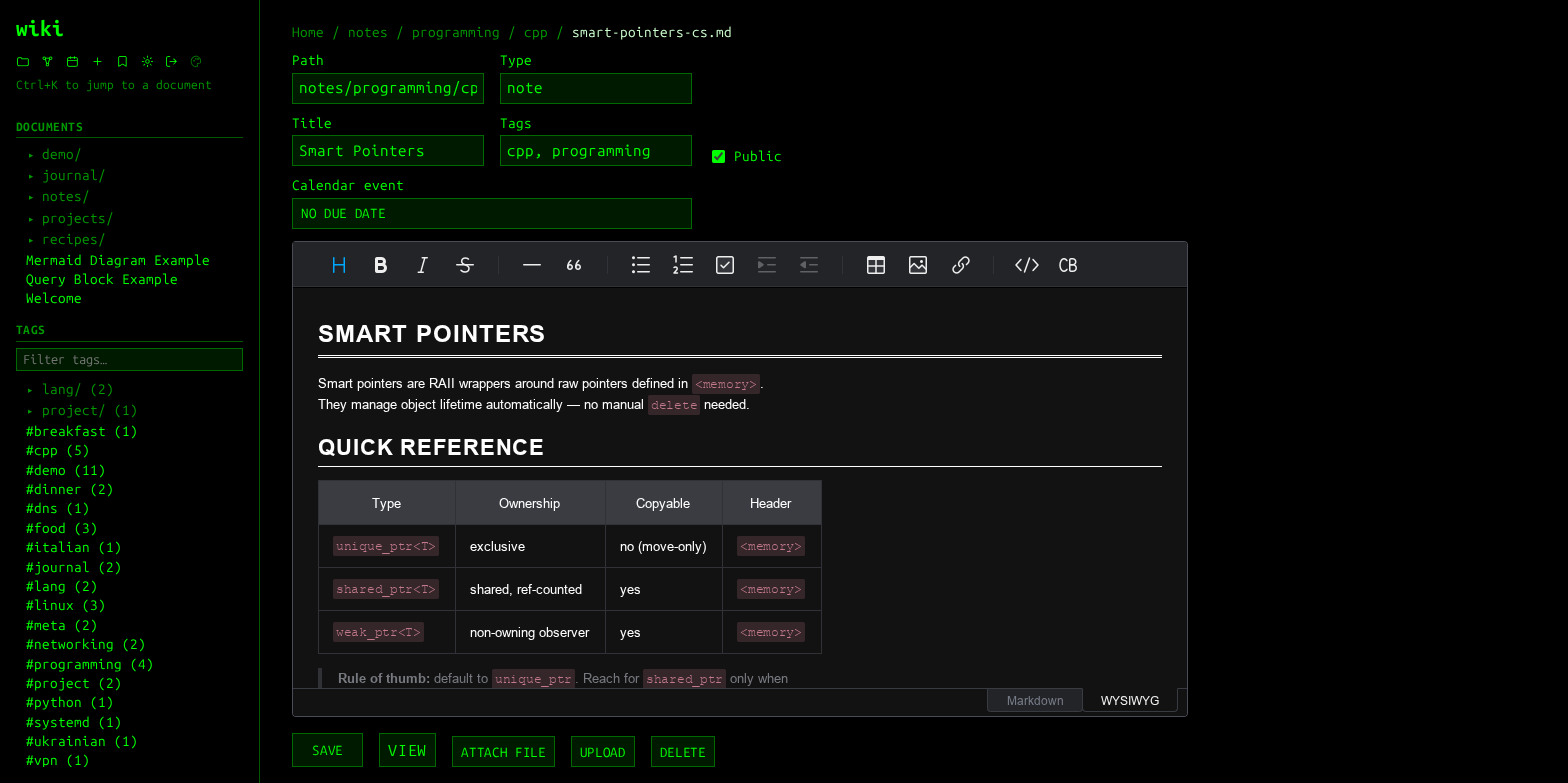
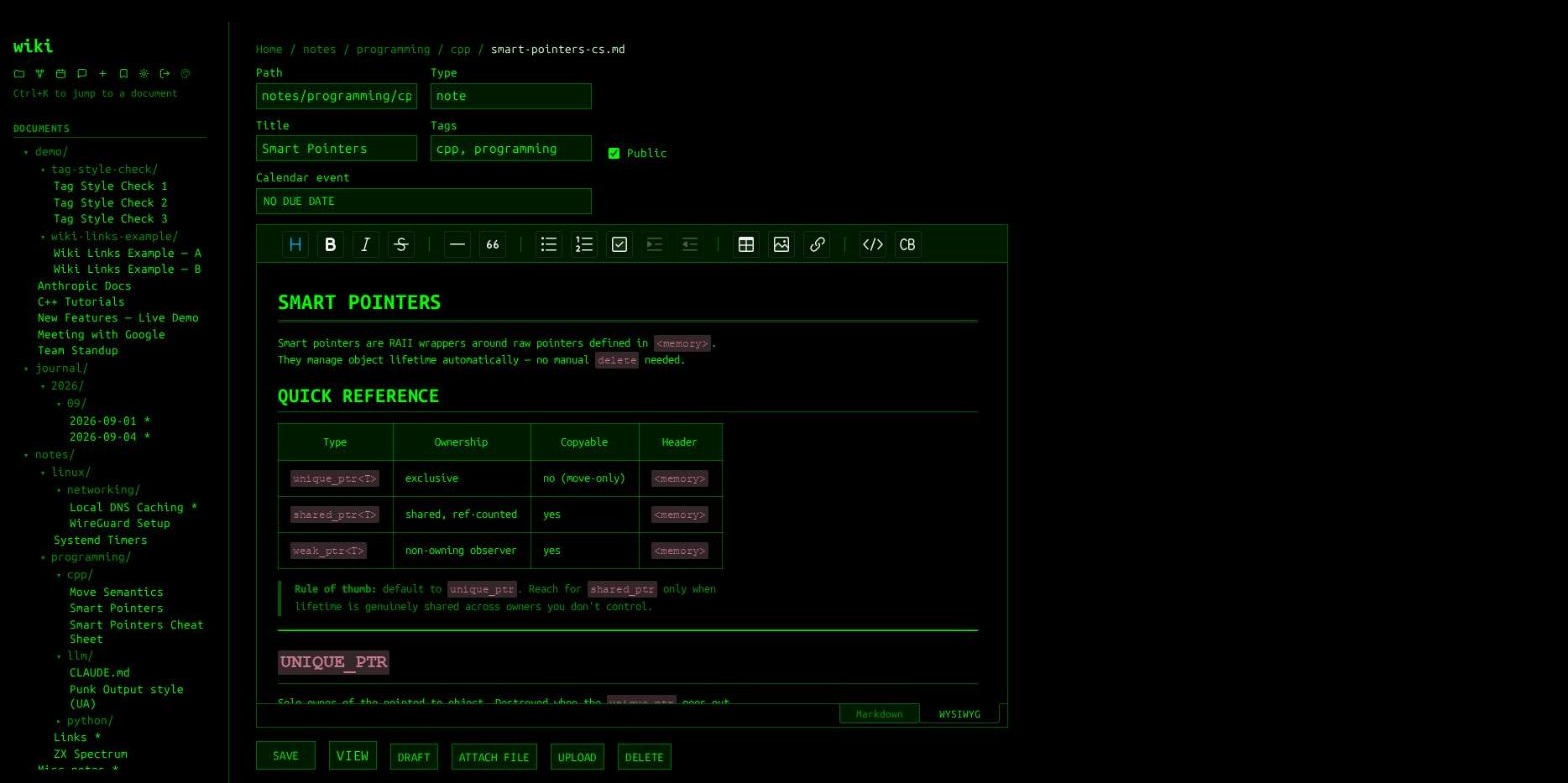
Match Toast UI Editor's look to the active site theme
edit.css re-points the editor's dark-mode chrome (toolbar, popups,
mode-switch tabs, WYSIWYG canvas, markdown-mode code blocks) at each
theme's own --bg/--panel-bg-2/--border/--link/--fg variables and font
stack instead of Toast UI's hardcoded palette, most visible on
green.css's neon-on-black look. classic.css is untouched; its editor
stays in Toast UI's own light mode.

Also fixes every toolbar icon vanishing on hover, in all three themes:
the generic button:hover rule set background as a shorthand, which
resets background-image to none along with the hover color, and Toast
UI's toolbar icons are drawn as a background-image sprite.
classic.css/dark.css/green.css now use background-color instead.

Bump to 0.3.4, refresh the editor screenshot.

Changed region(s): [[0.0, 0.0307, 0.7812, 1.0], [0.5312, 0.8582, 0.75, 0.9502], [0.0, 0.0307, 0.125, 0.1226]]

diff --git a/static/css/edit.css b/static/css/edit.css
@@ -53,6 +53,211 @@
   color: #eee;
 }
 
+/* Beyond the two contrast gaps above: Toast UI's `.toastui-editor-dark`
+   ships its OWN hardcoded dark palette (bg #121212, panels #232428,
+   accent #67ccff, "Open Sans") with no connection to this app's own
+   --bg/--panel-bg-2/--border/--link/font-stack variables (css/themes/
+   *.css). dark.css's neutral grays happen to land close enough to
+   Toast UI's own gray-on-gray that this was easy to miss; green.css's
+   neon-on-black terminal look does not — confirmed live, the editor
+   read as a different application dropped into the page, not a part of
+   it. Re-points every one of those hardcoded colors at this theme's own
+   variables, same "override the vendored file's class, never touch the
+   vendored file" approach as the fix just above. Every selector here
+   repeats `.toastui-editor-dark` once more than the vendored rule it's
+   beating — shell.html loads edit.css BEFORE toastui-editor-dark.css,
+   so at EQUAL specificity the vendored rule wins regardless of what's
+   written here; one repeated class is the cheapest way to always come
+   out ahead without chasing each selector's own pseudo-classes one by
+   one. Scoped to the WYSIWYG-mode chrome (toolbar, popups, canvas,
+   mode-switch tabs) — the default `initialEditType` and what a user
+   actually sees first; raw-markdown-mode's own internal syntax-marker
+   colors (`.toastui-editor-md-delimiter` etc.) are left alone, matching
+   this file's own earlier note that those were already checked live and
+   found legible as-is. Also left alone: inline `code`'s pink/brown
+   accent — Toast UI's own secondary accent for telling inline code
+   apart from block code, not this app's branding. */
+.toastui-editor-dark.toastui-editor-dark.toastui-editor-defaultUI {
+  border-color: var(--border);
+  color: var(--fg);
+  /* Toast UI's 4px rounded corners read as a different, boxier design
+     language next to this app's square-cornered chrome. */
+  border-radius: 0;
+  font-family: inherit;
+}
+.toastui-editor-dark.toastui-editor-dark .toastui-editor-md-container,
+.toastui-editor-dark.toastui-editor-dark .toastui-editor-ww-container {
+  background-color: var(--bg);
+}
+.toastui-editor-dark.toastui-editor-dark .toastui-editor-defaultUI-toolbar {
+  background-color: var(--panel-bg-2);
+  border-bottom-color: var(--border);
+}
+.toastui-editor-dark.toastui-editor-dark .toastui-editor-toolbar-icons:not(:disabled):hover {
+  background-color: var(--select-bg);
+  border-color: var(--select-bg);
+}
+.toastui-editor-dark.toastui-editor-dark .toastui-editor-toolbar-divider {
+  background-color: var(--border);
+}
+.toastui-editor-dark.toastui-editor-dark .toastui-editor-tooltip,
+.toastui-editor-dark.toastui-editor-dark .toastui-editor-tooltip .arrow {
+  background-color: var(--panel-bg-2);
+}
+
+/* The Markdown/WYSIWYG mode switch (bottom-right pill tabs). */
+.toastui-editor-dark.toastui-editor-dark .toastui-editor-mode-switch {
+  background-color: var(--bg);
+  border-top-color: var(--border);
+}
+.toastui-editor-dark.toastui-editor-dark .toastui-editor-mode-switch .tab-item {
+  background-color: var(--panel-bg-2);
+  border-color: var(--border);
+  color: var(--fg-dim);
+}
+.toastui-editor-dark.toastui-editor-dark .toastui-editor-mode-switch .tab-item.active {
+  background-color: var(--bg);
+  border-top-color: var(--bg);
+  color: var(--fg);
+}
+
+/* Write/Preview sub-tabs shown inside Markdown mode itself (previewStyle
+   "tab" — see pages/edit.js). */
+.toastui-editor-dark.toastui-editor-dark .toastui-editor-md-tab-container {
+  background-color: var(--panel-bg-2);
+  border-bottom-color: var(--border);
+}
+.toastui-editor-dark.toastui-editor-dark .toastui-editor-md-tab-container .tab-item {
+  background-color: var(--bg);
+  border-color: var(--border);
+  color: var(--fg-dim);
+}
+.toastui-editor-dark.toastui-editor-dark .toastui-editor-md-tab-container .tab-item.active {
+  background-color: var(--panel-bg-2);
+  border-bottom-color: var(--panel-bg-2);
+  color: var(--fg);
+}
+
+/* Popups (heading/link/image/table pickers), the right-click context
+   menu, and the toolbar's own dropdown dialogs. */
+.toastui-editor-dark.toastui-editor-dark .toastui-editor-popup,
+.toastui-editor-dark.toastui-editor-dark .toastui-editor-context-menu,
+.toastui-editor-dark.toastui-editor-dark .toastui-editor-dropdown-toolbar {
+  background-color: var(--panel-bg-2);
+  border-color: var(--border);
+  box-shadow: var(--glow);
+  font-family: inherit;
+}
+.toastui-editor-dark.toastui-editor-dark .toastui-editor-popup-add-heading ul li:hover,
+.toastui-editor-dark.toastui-editor-dark .toastui-editor-context-menu li:not(.disabled):hover {
+  background-color: var(--select-bg);
+}
+.toastui-editor-dark.toastui-editor-dark .toastui-editor-popup-body label,
+.toastui-editor-dark.toastui-editor-dark .toastui-editor-context-menu .menu-group {
+  color: var(--fg-dim);
+  border-bottom-color: var(--border);
+}
+.toastui-editor-dark.toastui-editor-dark .toastui-editor-popup-body input[type="text"] {
+  color: var(--fg);
+  border-color: var(--border);
+}
+.toastui-editor-dark.toastui-editor-dark .toastui-editor-popup-body input[type="text"]:focus {
+  outline-color: var(--link);
+}
+.toastui-editor-dark.toastui-editor-dark.toastui-editor-defaultUI .toastui-editor-close-button {
+  color: var(--fg);
+  border-color: var(--border);
+  background-color: var(--panel-bg-2);
+}
+.toastui-editor-dark.toastui-editor-dark.toastui-editor-defaultUI .toastui-editor-ok-button,
+.toastui-editor-dark.toastui-editor-dark.toastui-editor-defaultUI .toastui-editor-ok-button:hover {
+  color: var(--bg);
+  background-color: var(--link);
+}
+
+/* The WYSIWYG canvas itself (ProseMirror root + rendered content). */
+.toastui-editor-dark.toastui-editor-dark .ProseMirror,
+.toastui-editor-dark.toastui-editor-dark .toastui-editor-contents {
+  font-family: inherit;
+}
+.toastui-editor-dark.toastui-editor-dark .ProseMirror,
+.toastui-editor-dark.toastui-editor-dark .toastui-editor-contents p,
+.toastui-editor-dark.toastui-editor-dark .toastui-editor-contents h1,
+.toastui-editor-dark.toastui-editor-dark .toastui-editor-contents h2,
+.toastui-editor-dark.toastui-editor-dark .toastui-editor-contents h3,
+.toastui-editor-dark.toastui-editor-dark .toastui-editor-contents h4,
+.toastui-editor-dark.toastui-editor-dark .toastui-editor-contents h5,
+.toastui-editor-dark.toastui-editor-dark .toastui-editor-contents h6,
+.toastui-editor-dark.toastui-editor-dark .toastui-editor-contents div,
+.toastui-editor-dark.toastui-editor-dark .toastui-editor-contents table td,
+.toastui-editor-dark.toastui-editor-dark .toastui-editor-contents table td p {
+  color: var(--fg);
+}
+.toastui-editor-dark.toastui-editor-dark .toastui-editor-contents h1,
+.toastui-editor-dark.toastui-editor-dark .toastui-editor-contents h2 {
+  border-color: var(--border);
+}
+.toastui-editor-dark.toastui-editor-dark .toastui-editor-contents a {
+  color: var(--link);
+}
+.toastui-editor-dark.toastui-editor-dark .toastui-editor-contents a:hover {
+  color: var(--fg-bright);
+}
+.toastui-editor-dark.toastui-editor-dark .toastui-editor-contents blockquote {
+  border-color: var(--border);
+}
+.toastui-editor-dark.toastui-editor-dark .toastui-editor-contents blockquote p,
+.toastui-editor-dark.toastui-editor-dark .toastui-editor-contents blockquote ul,
+.toastui-editor-dark.toastui-editor-dark .toastui-editor-contents blockquote ol,
+.toastui-editor-dark.toastui-editor-dark .toastui-editor-contents ul,
+.toastui-editor-dark.toastui-editor-dark .toastui-editor-contents menu,
+.toastui-editor-dark.toastui-editor-dark .toastui-editor-contents ol,
+.toastui-editor-dark.toastui-editor-dark .toastui-editor-contents dir,
+.toastui-editor-dark.toastui-editor-dark .toastui-editor-contents del {
+  color: var(--fg-dim);
+}
+.toastui-editor-dark.toastui-editor-dark .toastui-editor-contents ul > li::before {
+  background-color: var(--fg-dim);
+}
+.toastui-editor-dark.toastui-editor-dark .toastui-editor-contents hr {
+  border-color: var(--fg-dim);
+}
+.toastui-editor-dark.toastui-editor-dark .toastui-editor-contents pre {
+  background-color: var(--panel-bg);
+}
+.toastui-editor-dark.toastui-editor-dark .toastui-editor-contents pre code {
+  color: var(--fg);
+}
+.toastui-editor-dark.toastui-editor-dark .toastui-editor-contents table,
+.toastui-editor-dark.toastui-editor-dark .toastui-editor-contents table th,
+.toastui-editor-dark.toastui-editor-dark .toastui-editor-contents table td {
+  border-color: var(--border);
+}
+.toastui-editor-dark.toastui-editor-dark .toastui-editor-contents table th {
+  background-color: var(--panel-bg-2);
+}
+.toastui-editor-dark.toastui-editor-dark .toastui-editor-ww-code-block-language {
+  border-color: var(--border);
+  background-color: var(--panel-bg);
+}
+.toastui-editor-dark.toastui-editor-dark .toastui-editor-ww-code-block-language input {
+  color: var(--fg);
+}
+.toastui-editor-dark.toastui-editor-dark .toastui-editor-contents .toastui-editor-ww-code-block:after {
+  background-color: var(--panel-bg-2);
+  border-color: var(--border);
+  color: var(--fg);
+}
+
+/* Markdown-mode's own fenced-code-block background (the raw ```cpp
+   line's highlighted row) — left out of this file's earlier "leave
+   markdown-mode alone" note because it's a block BACKGROUND, the same
+   kind of chrome already being re-themed above, not a syntax-marker
+   TEXT color like `.toastui-editor-md-delimiter`. */
+.toastui-editor-dark.toastui-editor-dark .toastui-editor-md-code-block-line-background {
+  background-color: var(--panel-bg);
+}
+
 /* flex-end, not center -- a text+input label (".field-row label", column
    layout: label text ABOVE its input) is taller than the single-row
    ".visibility-toggle" (checkbox + "Public" text, nothing above it), so

diff --git a/static/css/themes/classic.css b/static/css/themes/classic.css
@@ -544,7 +544,16 @@ button {
   letter-spacing: normal;
 }
 button:hover {
-  background: var(--link);
+  /* background-color, NOT the `background` shorthand -- found live via
+     the Toast UI Editor toolbar: its icon buttons draw their glyph as a
+     background-image sprite (see js/toastui-editor/toastui-editor.css),
+     and the shorthand resets background-image to none along with
+     setting the color, wiping every toolbar icon to a blank highlighted
+     box on hover. Only `.toastui-editor-toolbar-icons` has a sprite to
+     lose; every other `<button>` here has no background-image set at
+     all, so this is a strictly safer equivalent, not a behavior change
+     for them. */
+  background-color: var(--link);
   color: var(--bg);
   border-color: var(--link);
 }

diff --git a/static/css/themes/dark.css b/static/css/themes/dark.css
@@ -524,7 +524,10 @@ button {
   letter-spacing: normal;
 }
 button:hover {
-  background: var(--fg);
+  /* background-color, not the `background` shorthand -- see classic.css's
+     identical rule for why (Toast UI Editor's toolbar icons are a
+     background-image sprite the shorthand would wipe on hover). */
+  background-color: var(--fg);
   color: var(--bg);
 }
 

diff --git a/static/css/themes/green.css b/static/css/themes/green.css
@@ -653,7 +653,10 @@ button {
   letter-spacing: 0.05em;
 }
 button:hover {
-  background: var(--fg);
+  /* background-color, not the `background` shorthand -- see classic.css's
+     identical rule for why (Toast UI Editor's toolbar icons are a
+     background-image sprite the shorthand would wipe on hover). */
+  background-color: var(--fg);
   color: var(--bg);
 }
 

diff --git a/CHANGELOG.md b/CHANGELOG.md
@@ -6,7 +6,7 @@ versioning follows [SemVer](https://semver.org/). The version lives in
 binaries — check a running/built copy with `wiki-server --version` or
 `wiki-mcp --version`.
 
-## [Unreleased]
+## [0.3.4] - 2026-10-21
 
 ### Added
 
@@ -23,6 +23,24 @@ binaries — check a running/built copy with `wiki-server --version` or
 
 ### Fixed
 
+- Toast UI Editor's `dark` UI mode (used by both `dark.css` and
+  `green.css`) carried its own hardcoded palette and font, unrelated to
+  the active site theme's CSS variables — most visible on `green.css`,
+  where the editor rendered as a plain gray UI instead of the page's
+  own green-on-black look. `edit.css` now re-points the editor's
+  toolbar, popups, mode-switch tabs, WYSIWYG canvas, and the
+  markdown-mode code-block background at the theme's own
+  `--bg`/`--panel-bg-2`/`--border`/`--link`/`--fg` variables and font
+  stack. `classic.css` is unaffected — its editor runs in Toast UI's
+  own light mode and was not touched.
+- Every toolbar button in Toast UI Editor lost its icon on hover, in
+  all three themes. Each theme's generic `button:hover` rule set
+  `background` as a shorthand, which resets `background-image` to
+  `none` along with the hover color — and Toast UI's toolbar icons are
+  drawn as a `background-image` sprite, so the shorthand wiped them on
+  every hover regardless of theme. `classic.css`, `dark.css`, and
+  `green.css` now set `background-color` instead, which recolors the
+  same way without touching `background-image`.
 - `tools/wiki-install.sh` (no binary change, so no version bump — this
   only touches the shell script, fetched from `main` directly, not
   from a tagged release asset):
